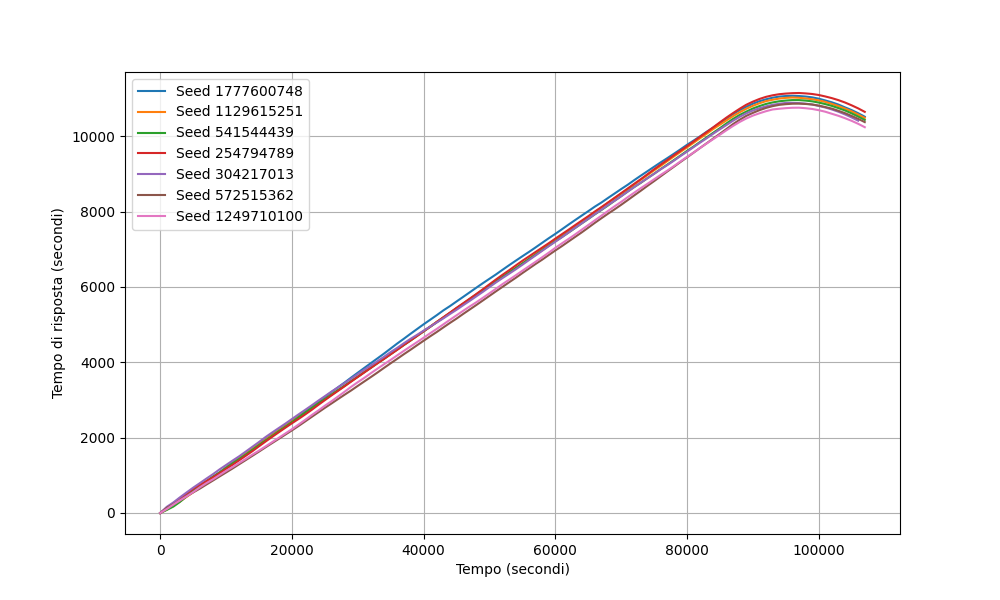
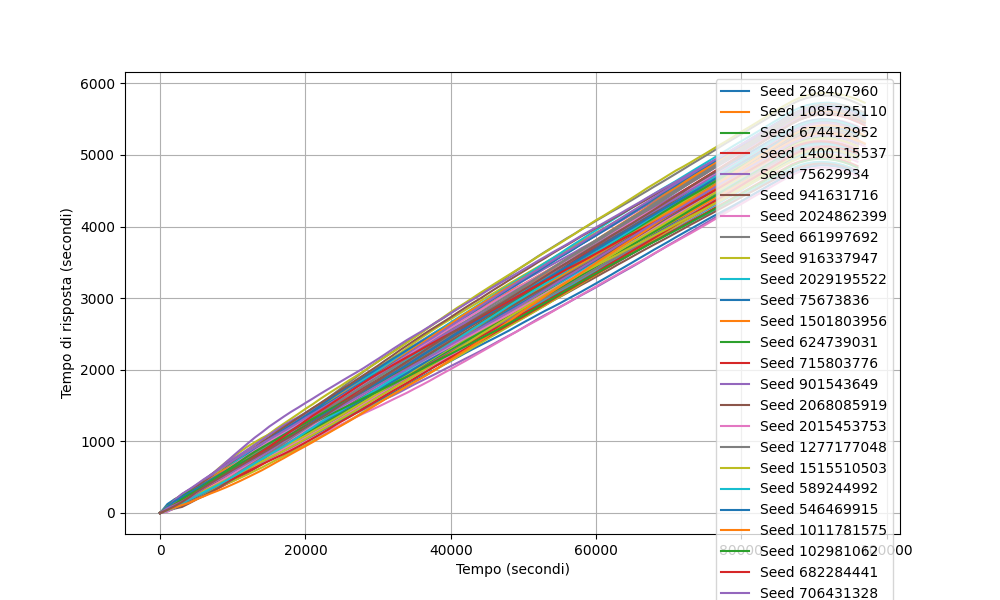
plot

diff --git a/main.py b/main.py
@@ -104,7 +104,16 @@ def start_infinite_simulation():
 
     return batch_stats
 
-def plot_run_pc(sim_type):
+def plot_run_pc():
+    if MODEL == STANDARD:
+        sim_type = "standard"
+    elif MODEL == BETTER:
+        sim_type = "better"
+    elif MODEL == SCALABILITY:
+        sim_type = "scalability"
+    else:
+        sim_type = "better_scalability"
+
     path = f"simulation/../output/plot/pc/{sim_type}/"
 
     if SIMULATION_TYPE == FINITE:
@@ -114,7 +123,7 @@ def plot_run_pc(sim_type):
         file_name = "infinite.csv"
         plot_name = "infinite.png"
 
-    with open(f"{path}{file_name}", 'w', newline='', encoding='utf-8') as csvfile:
+    with open(f"{path}{file_name}_{LAMBDA}", 'w', newline='', encoding='utf-8') as csvfile:
         writer = csv.DictWriter(csvfile, fieldnames=["Pc", "E_wait"])
         writer.writeheader()
 
@@ -145,8 +154,8 @@ def plot_run_pc(sim_type):
     plt.grid(True)
     plt.legend()
 
-    plt.savefig(f"{path}{plot_name}")
+    plt.savefig(f"{path}{plot_name}_{LAMBDA}")
 
-#plot_run_pc("better")
-start_simulation()
+plot_run_pc()
+#start_simulation()
 

diff --git a/utils/constants.py b/utils/constants.py
@@ -1,4 +1,4 @@
-LAMBDA = 1.55  # mean arrival time [secondo/job]
+LAMBDA = 1.4  # mean arrival time [secondo/job]
 
 EDGE_SERVERS = 1
 CLOUD_SERVERS = 1
@@ -37,7 +37,7 @@ def set_probability(value):
 
 SEED = 123456789
 
-REPLICATIONS = 7
+REPLICATIONS = 96
 
 INFINITE = 0
 FINITE = 1
@@ -47,7 +47,7 @@ BETTER = 0
 STANDARD = 1
 SCALABILITY = 2
 BETTER_SCALABILITY = 3
-MODEL = BETTER
+MODEL = STANDARD
 
 START = 0.0  # initial time
 STOP = 86400  # terminal (close the door) time
